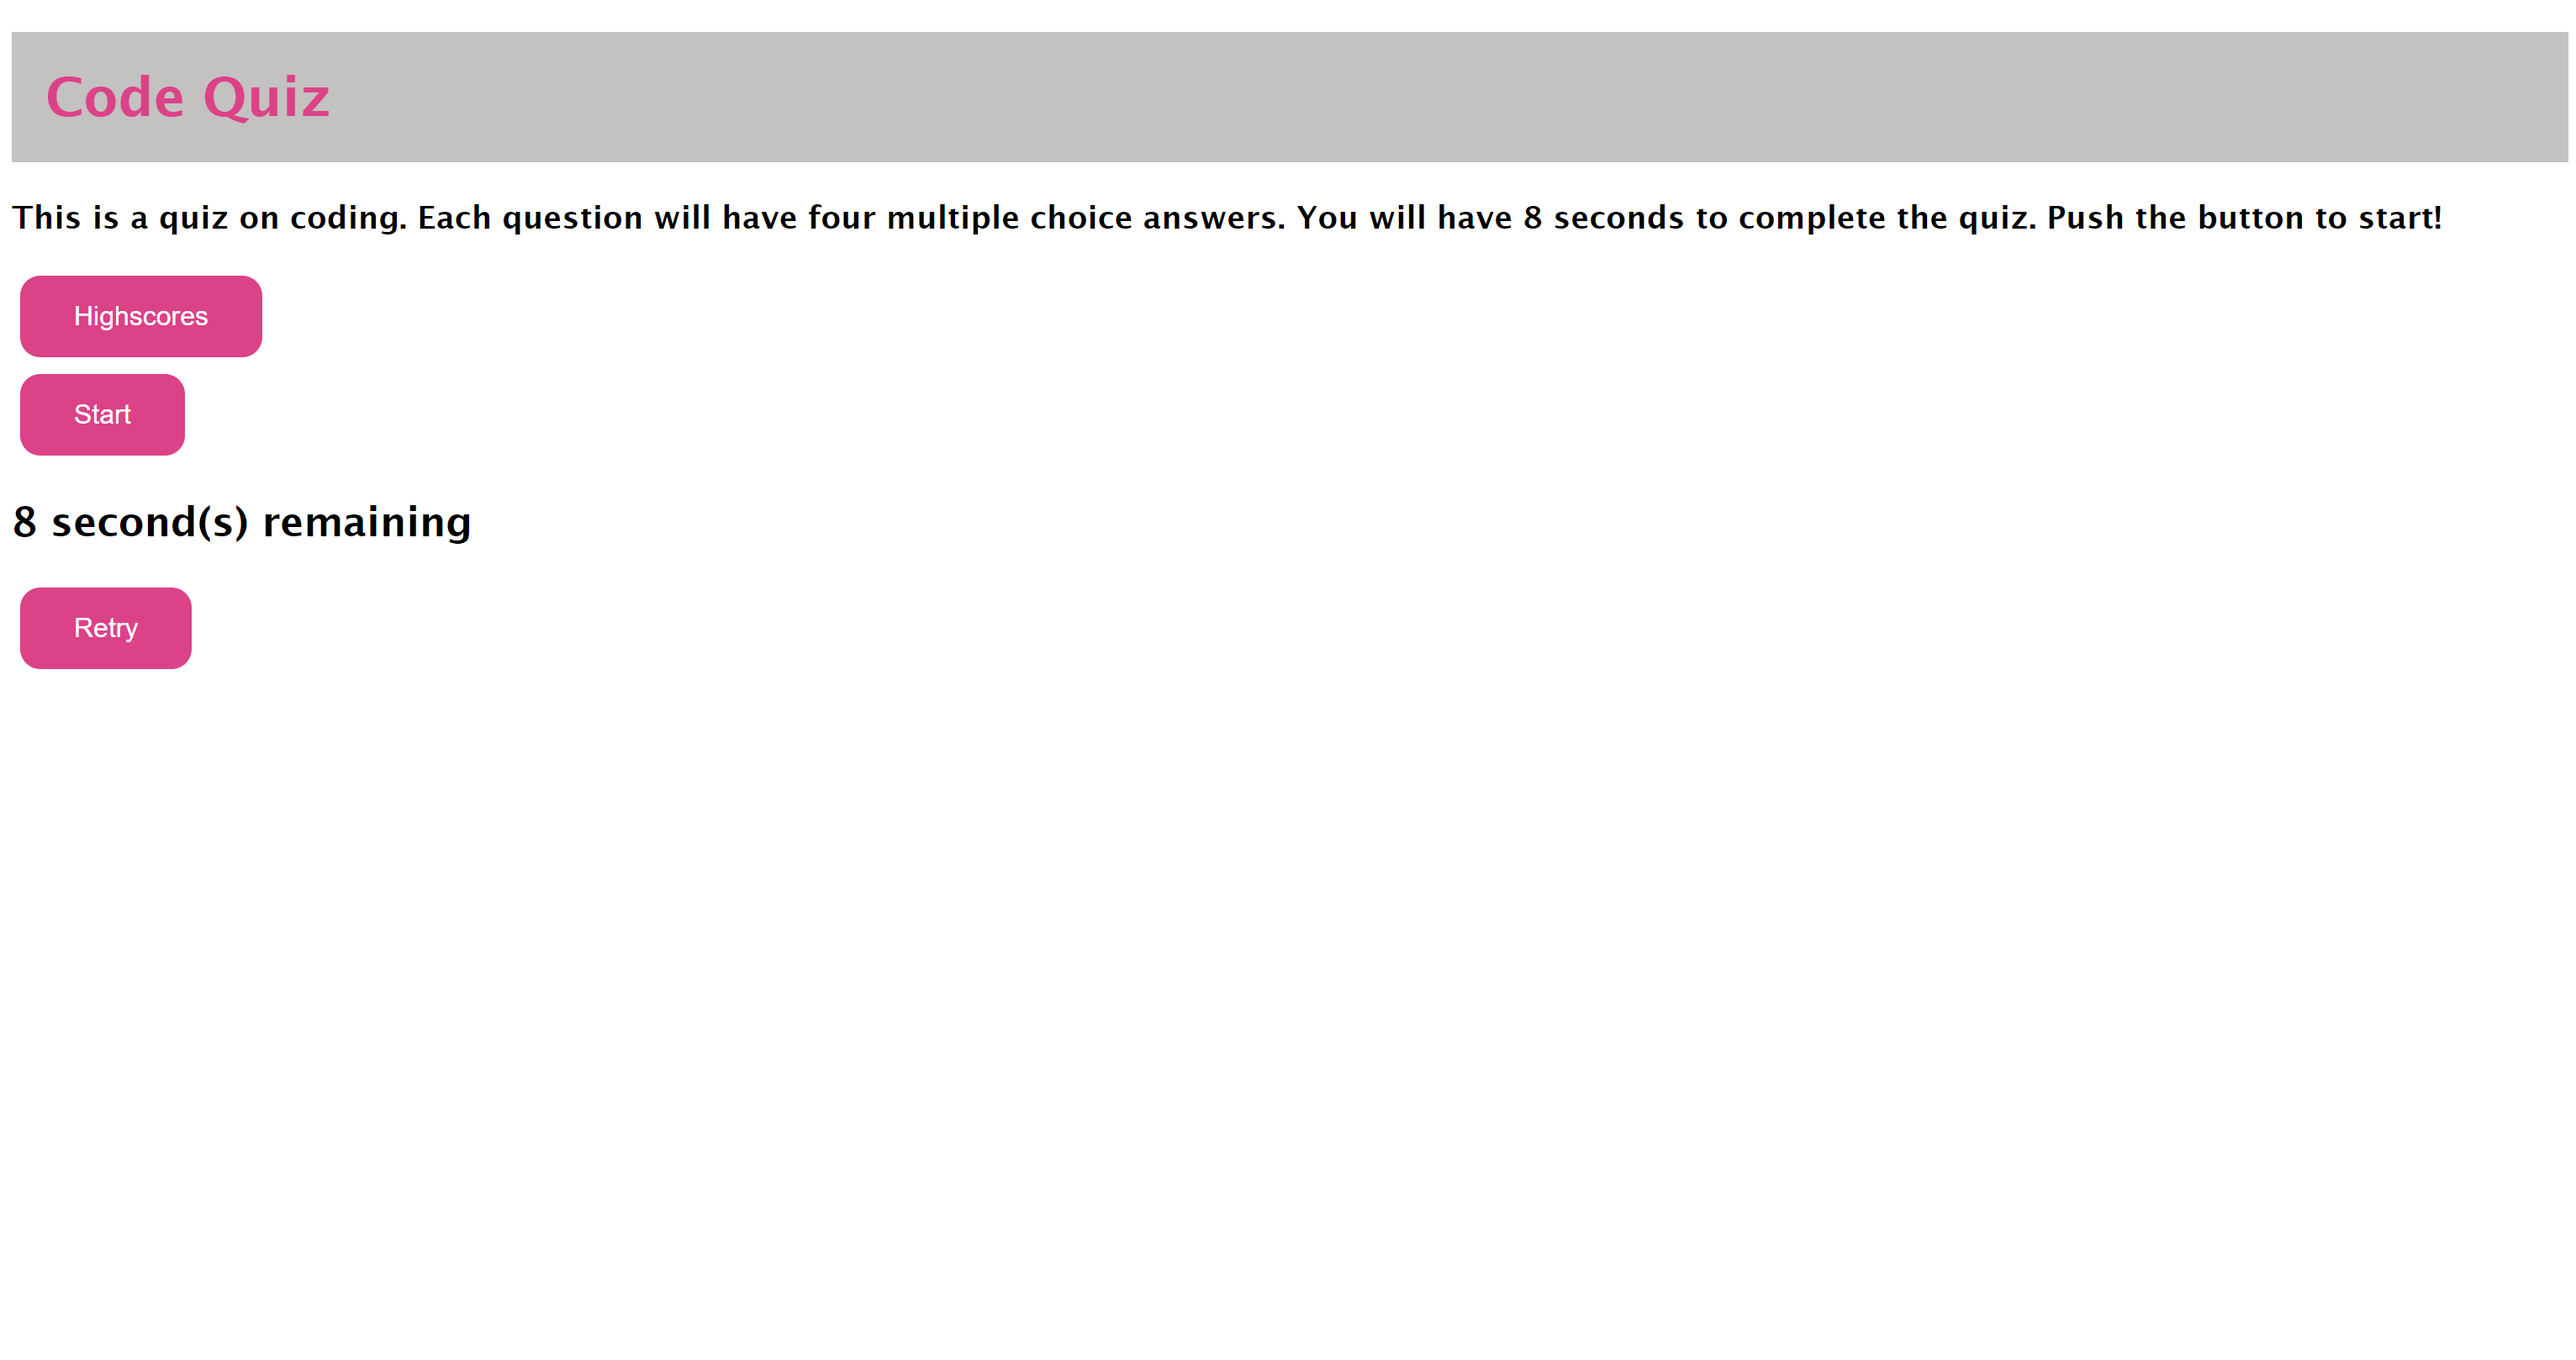
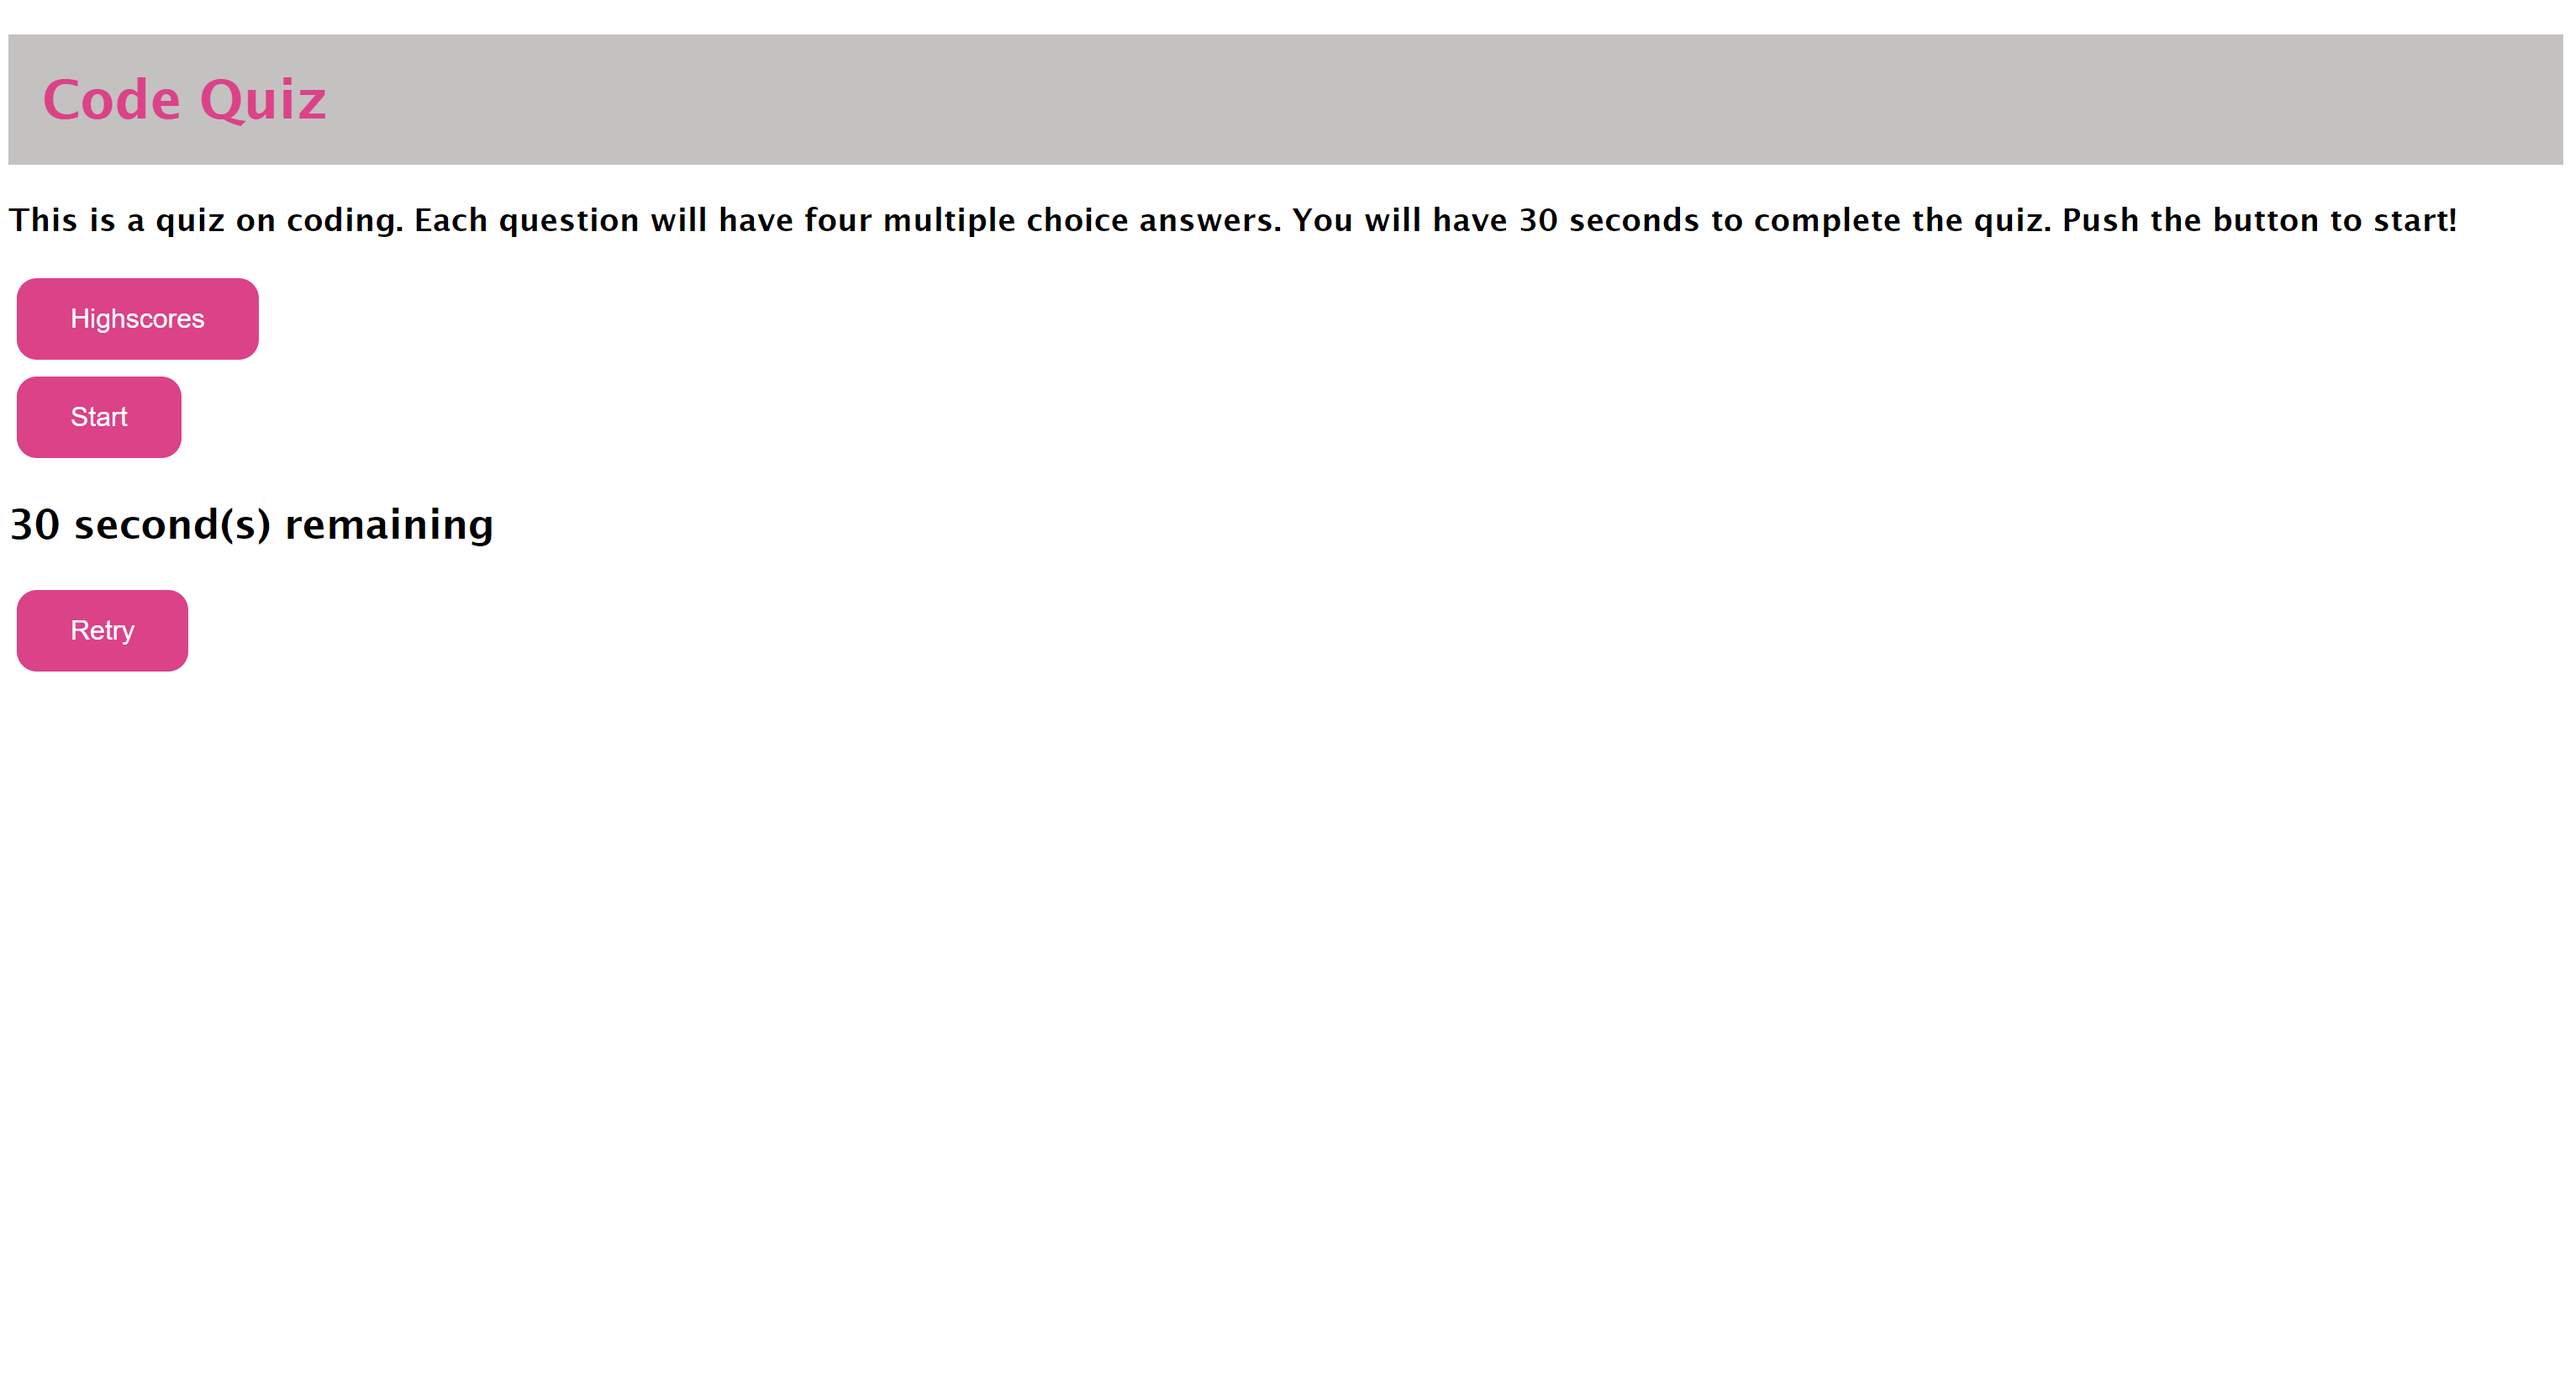
updated path

diff --git a/index.html b/index.html
@@ -21,7 +21,7 @@
     <!-- the desc has a hidden class applied to it, so it isn't shown until js makes it shown -->
     <div id="description" class="description show">
         <h3>
-            This is a quiz on coding. Each question will have four multiple choice answers. You will have 8 seconds to
+            This is a quiz on coding. Each question will have four multiple choice answers. You will have 30 seconds to
             complete the quiz. Push the button to start!
         </h3>
         <button type="button" class="button score-btn" href="#">Highscores</button>
@@ -98,7 +98,7 @@
         </h2>
     </div>
     <!-- timer display -->
-    <h2 class="time show">8 second(s) remaining</h2>
+    <h2 class="time show">30 second(s) remaining</h2>
 
     <!-- The highscores are listed here and start hidden -->
     <section class="highscores hide">
